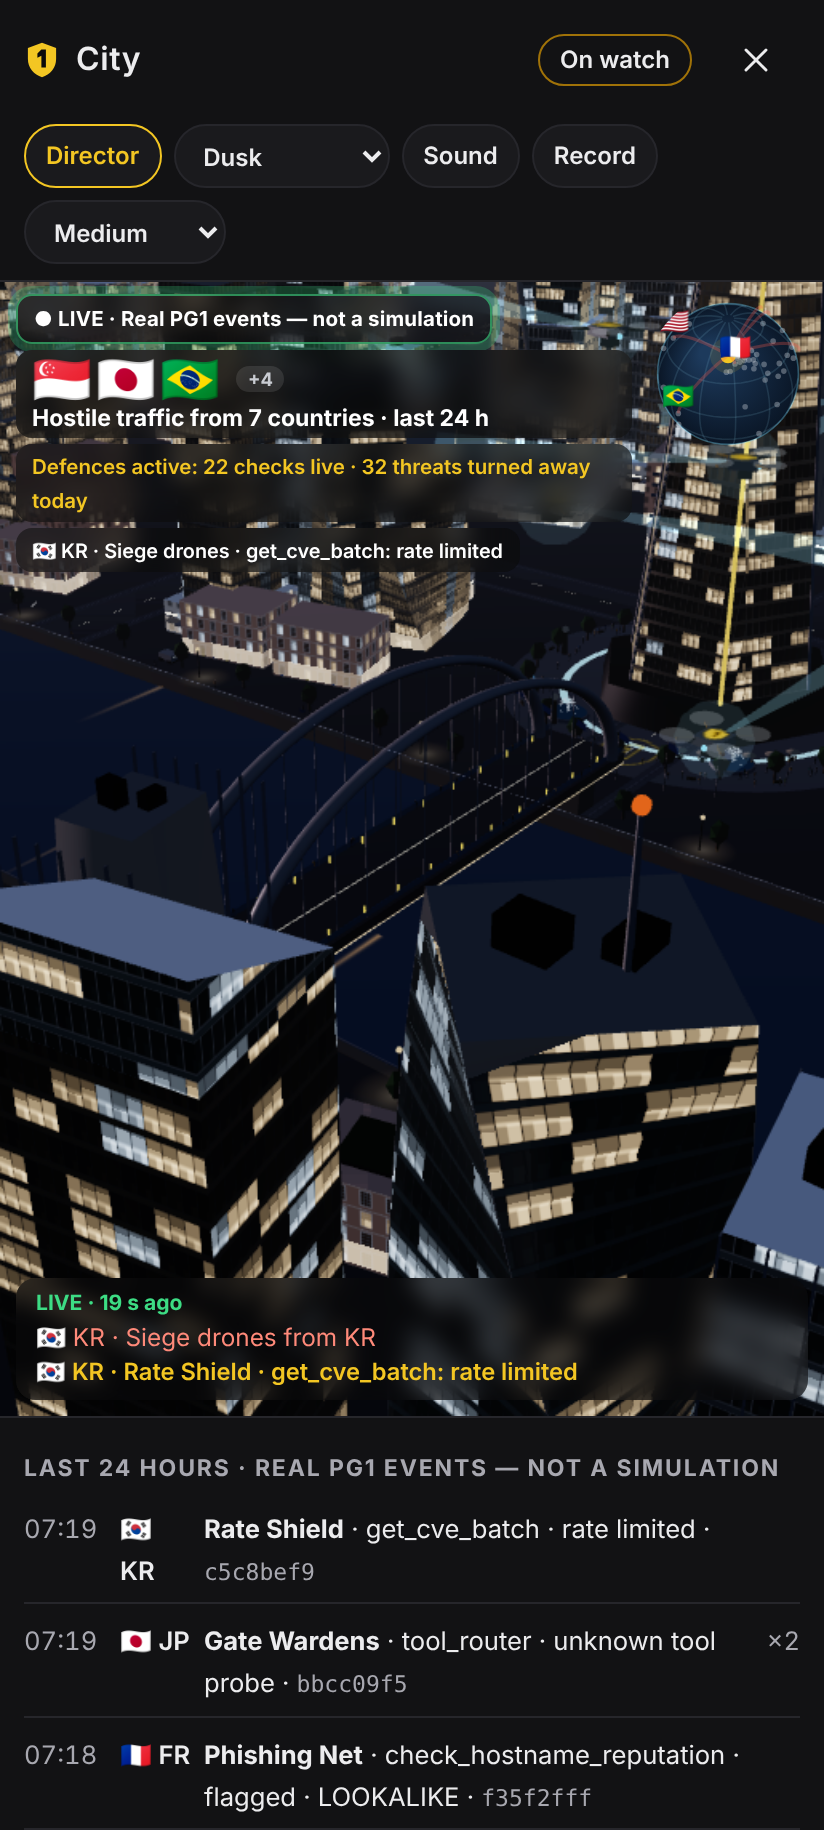
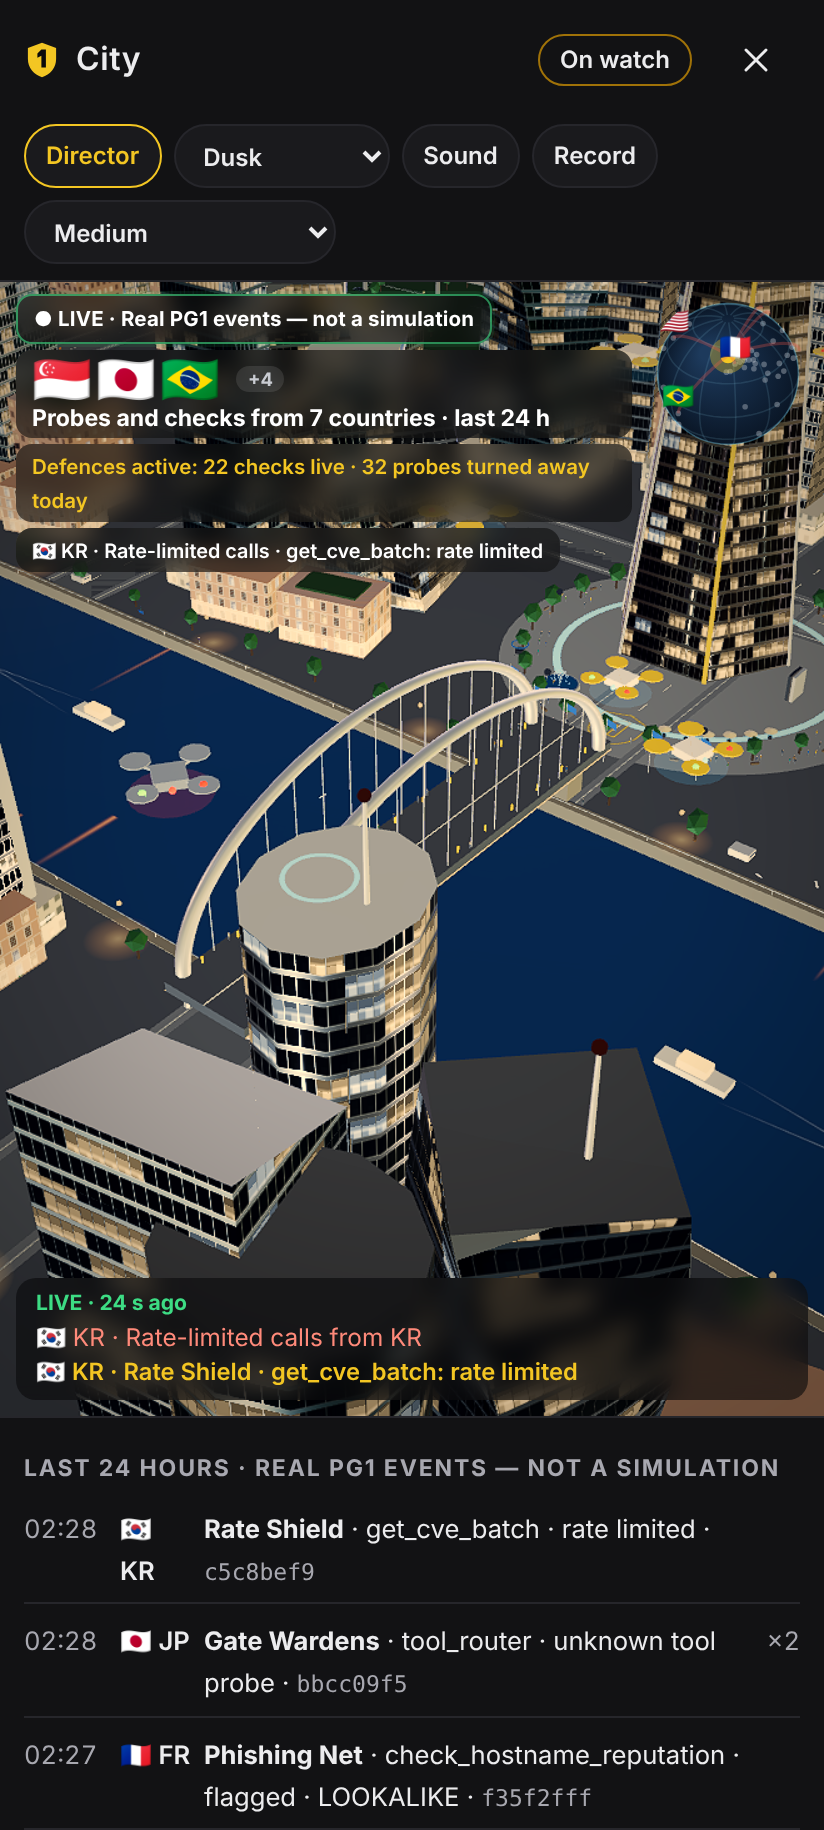
City: a modelled tram, rounder trees, a lit lobby, fuller figures; Legacy kept under budget at night
- The tram: one model of the whole five-car set (articulated cars and
  bellows, a raked cab nose with a windscreen at each end, glazed window
  band and doors lit after dark, livery stripe, bogies, roof gear and
  pantographs), one instance a tram, one draw call. Was five white boxes.
- Trees (desktop tiers): a clump of rounded masses with their own shade and
  size; phone tiers keep the single low crown.
- The tower's podium (desktop tiers): a lit glass lobby between stone bands
  instead of dark steel that read as a black wall at eye level.
- People (all but Low): hips, shoulders, neck, arms with hands, hair.
- Legacy at night was over 150k triangles (also on main: the night lights
  are on screen); its lamp heads and drone lamps are now low-poly spheres:
  143k.
- The reel: street level at eye level among the people, looking up at the
  tower; Showcase workflow `reel_epoch` to re-render shots on an earlier
  run's 7-day window.

Claude-Session: https://claude.ai/code/session_01X8yNKEDv3E9yUsKKADbqih

diff --git a/public/kingdom/kingdom-life.js b/public/kingdom/kingdom-life.js
@@ -49,9 +49,20 @@ export function personGeometry(THREE, { low = false } = {}) {
   const trousers = [0.16, 0.17, 0.2];
   for (const x of [-0.1, 0.1]) { const l = new THREE.CylinderGeometry(0.075, 0.065, 0.86, sides, 1, true); l.translate(x, 0.45, 0); add(l, trousers, 0); }
   if (!low) for (const x of [-0.1, 0.1]) { const sh = new THREE.BoxGeometry(0.11, 0.07, 0.24); sh.translate(x, 0.035, 0.04); add(sh, [0.08, 0.08, 0.09], 0); }
-  const torso = new THREE.CylinderGeometry(0.21, 0.16, 0.62, sides, 1, false); torso.translate(0, 1.18, 0); add(torso, [1, 1, 1], 1);
-  if (!low) for (const x of [-0.25, 0.25]) { const a = new THREE.CylinderGeometry(0.05, 0.045, 0.58, 4, 1, true); a.translate(x, 1.17, 0); add(a, [1, 1, 1], 1); }
-  const head = new THREE.SphereGeometry(0.115, low ? 5 : 7, low ? 3 : 5); head.scale(1, 1.12, 1); head.translate(0, 1.64, 0); add(head, [1, 1, 1], 2);
+  if (low) { const torso = new THREE.CylinderGeometry(0.21, 0.16, 0.62, sides, 1, false); torso.translate(0, 1.18, 0); add(torso, [1, 1, 1], 1); }
+  else {
+    // Hips, a torso with shoulders, a neck; arms with skin-toned hands; hair.
+    const hips = new THREE.CylinderGeometry(0.17, 0.16, 0.16, 8, 1, false); hips.translate(0, 0.9, 0); add(hips, trousers, 0);
+    const torso = new THREE.CylinderGeometry(0.22, 0.165, 0.56, 8, 1, false); torso.scale(1, 1, 0.72); torso.translate(0, 1.25, 0); add(torso, [1, 1, 1], 1);
+    const shoulders = new THREE.SphereGeometry(0.22, 8, 3, 0, Math.PI * 2, 0, Math.PI / 2); shoulders.scale(1, 0.35, 0.72); shoulders.translate(0, 1.52, 0); add(shoulders, [1, 1, 1], 1);
+    const neck = new THREE.CylinderGeometry(0.05, 0.055, 0.09, 6, 1, true); neck.translate(0, 1.56, 0); add(neck, [1, 1, 1], 2);
+    for (const x of [-0.255, 0.255]) {
+      const a = new THREE.CylinderGeometry(0.058, 0.048, 0.56, 6, 1, true); a.rotateZ(x > 0 ? 0.08 : -0.08); a.translate(x, 1.23, 0); add(a, [1, 1, 1], 1);
+      const h = new THREE.SphereGeometry(0.05, 5, 4); h.translate(x * 1.08, 0.92, 0); add(h, [1, 1, 1], 2);
+    }
+  }
+  const head = new THREE.SphereGeometry(0.115, low ? 5 : 9, low ? 3 : 7); head.scale(1, 1.12, 1); head.translate(0, 1.7, 0); add(head, [1, 1, 1], 2);
+  if (!low) { const hair = new THREE.SphereGeometry(0.122, 9, 4, 0, Math.PI * 2, 0, Math.PI * 0.55); hair.scale(1, 1.1, 1.04); hair.translate(0, 1.715, -0.012); add(hair, [0.1, 0.075, 0.06], 0); }
   const n = parts.reduce((k, g) => k + g.attributes.position.count, 0);
   const out = new THREE.BufferGeometry();
   for (const [name, size] of [['position', 3], ['normal', 3], ['color', 3], ['aTint', 1]]) {
@@ -210,8 +221,47 @@ export function createLife(THREE, scene, world, settings) {
   const platforms = named(new THREE.InstancedMesh(new THREE.BoxGeometry(100, 0.6, 3), std(0xb7babf, { roughness: 0.7 }), traffic.stations.length * 2), 'tram-platforms');
   traffic.stations.forEach((x, i) => { set(platforms, i * 2, x, 15.9, TRAM_Z - 6); set(platforms, i * 2 + 1, x, 15.9, TRAM_Z + 6); });
   root.add(platforms);
-  const tramTex = (() => { const cv = document.createElement('canvas'); cv.width = 128; cv.height = 32; const g = cv.getContext('2d'); g.fillStyle = '#20262e'; g.fillRect(0, 0, 128, 32); g.fillStyle = '#ffe2b0'; for (let x = 6; x < 128; x += 16) g.fillRect(x, 9, 10, 12); const t = new THREE.CanvasTexture(cv); t.colorSpace = THREE.SRGBColorSpace; return t; })();
-  const carriages = dyn(named(new THREE.InstancedMesh(new THREE.BoxGeometry(18, 3.4, 2.8), new THREE.MeshStandardMaterial({ color: LIFE_COLOURS.tram, emissive: 0xffffff, emissiveMap: tramTex, emissiveIntensity: 0.9, roughness: 0.4, metalness: 0.5 }), 10), 'tram'));
+  // The tram (1.24 look): one model of the whole five-car set, not boxes.
+  // Articulated cars with bellows between them, a raked cab nose with a
+  // windscreen at each end (it runs both ways), a glazed window band and
+  // glazed doors that light up after dark, a livery stripe, bogies, roof
+  // equipment and a pantograph on alternate cars. One instance a tram, one
+  // draw call. Built along z (cars 18 m, 0.6 m bellows), floor at y 0.
+  const TRAM_CAR = 18; const TRAM_GAP = 0.6; const TRAM_SET = 5 * TRAM_CAR + 4 * TRAM_GAP;
+  const rect = (z0, z1, y0, y1, w, col, glow = 0) => ({ ...profile([[z0, y0], [z1, y0], [z1, y1], [z0, y1]], w, col), glow });
+  const LIVERY = [0.18, 0.43, 0.71]; const SHELL = [0.93, 0.94, 0.95]; const ROOFGREY = [0.42, 0.44, 0.47]; const BOGIE = [0.1, 0.1, 0.11]; const LAMP = [1, 0.97, 0.9];
+  const tramParts = [];
+  for (let c = 0; c < 5; c++) {
+    const z0 = -TRAM_SET / 2 + c * (TRAM_CAR + TRAM_GAP); const z1 = z0 + TRAM_CAR; const zc = (z0 + z1) / 2;
+    tramParts.push(
+      rect(z0, z1, 0.35, 3.2, 2.62, SHELL),                                   // the body shell
+      rect(z0 + 0.8, z1 - 0.8, 1.3, 2.7, 2.66, GLASS, 1),                     // the window band, lit inside after dark
+      rect(zc - 5.4, zc - 3.8, 0.45, 2.75, 2.68, [0.12, 0.15, 0.18], 0.7),    // glazed doors, two a side
+      rect(zc + 3.8, zc + 5.4, 0.45, 2.75, 2.68, [0.12, 0.15, 0.18], 0.7),
+      rect(z0, z1, 0.62, 0.95, 2.67, LIVERY),                                 // the livery stripe
+      rect(z0, z1, 2.82, 2.95, 2.67, LIVERY),                                 // and the cant rail
+      ({ ...profile([[z0 + 0.3, 3.2], [z1 - 0.3, 3.2], [z1 - 0.6, 3.42], [z0 + 0.6, 3.42]], 2.3, SHELL) }), // the roof's curve
+      rect(zc - 3.2, zc + 3.2, 3.42, 3.75, 1.5, ROOFGREY),                    // roof equipment
+      rect(z0 + 2.2, z0 + 4.6, 0, 0.42, 2.2, BOGIE), rect(z1 - 4.6, z1 - 2.2, 0, 0.42, 2.2, BOGIE)
+    );
+    if (c % 2 === 0) tramParts.push(rect(zc - 0.1, zc + 0.1, 3.75, 4.6, 1.6, ROOFGREY), rect(zc - 0.7, zc + 0.7, 4.55, 4.65, 1.7, ROOFGREY)); // pantograph
+    if (c < 4) tramParts.push(rect(z1, z1 + TRAM_GAP, 0.5, 3.0, 2.3, BOGIE));  // bellows
+  }
+  for (const s of [-1, 1]) {
+    const e = s * TRAM_SET / 2; const f = (dz) => e + s * dz; const nose = (pts) => (s > 0 ? pts : pts.slice().reverse()).map(([dz, y]) => [f(dz), y]);
+    tramParts.push(
+      profile(nose([[0, 0.35], [0.9, 0.45], [1.25, 1.2], [1.1, 2.9], [0.6, 3.38], [0, 3.42]]), 2.5, SHELL),   // the raked cab nose
+      { ...profile(nose([[0.05, 1.3], [1.28, 1.3], [1.13, 2.85], [0.62, 3.2], [0.05, 3.2]]), 2.2, GLASS), glow: 0.25 }, // windscreen
+      rect(Math.min(f(0.9), f(1.27)), Math.max(f(0.9), f(1.27)), 0.6, 0.95, 2.52, LIVERY),
+      ...[-0.85, 0.85].map((x) => { const l = rect(Math.min(f(1.0), f(1.3)), Math.max(f(1.0), f(1.3)), 0.75, 0.92, 0.4, LAMP, 2.4); l.g.translate(x, 0, 0); return l; }), // headlamps at the corners
+      { ...rect(Math.min(f(0.7), f(1.0)), Math.max(f(0.7), f(1.0)), 2.95, 3.2, 1.3, [1, 0.72, 0.25]), glow: 1.6 } // destination sign
+    );
+  }
+  const tramGeo = vehicleGeo(tramParts);
+  const tramMat = std(0xffffff, { roughness: 0.38, metalness: 0.35, vertexColors: true }); const tramLit = { value: 0.2 };
+  tramMat.onBeforeCompile = (sh) => { sh.uniforms.uLit = tramLit; sh.vertexShader = sh.vertexShader.replace('#include <common>', '#include <common>\nattribute vec3 aGlow;\nvarying vec3 vGlow;').replace('#include <begin_vertex>', '#include <begin_vertex>\nvGlow = aGlow;'); sh.fragmentShader = sh.fragmentShader.replace('#include <common>', '#include <common>\nvarying vec3 vGlow;\nuniform float uLit;').replace('#include <emissivemap_fragment>', '#include <emissivemap_fragment>\ntotalEmissiveRadiance += vGlow * uLit;'); };
+  tramMat.customProgramCacheKey = () => 'pg1-tram-windows';
+  const carriages = dyn(named(new THREE.InstancedMesh(tramGeo, tramMat, 2), 'tram'));
   root.add(carriages);
 
   // --- the river: boats in lanes, with wakes; moored boats rocking ---
@@ -524,9 +574,10 @@ export function createLife(THREE, scene, world, settings) {
       if (carBodies.instanceColor) carBodies.instanceColor.needsUpdate = true;
       for (const m of [carBodies, carCabs, vans, buses, heads, tails, spray]) m.instanceMatrix.needsUpdate = true;
       // The trams.
-      traffic.trams.forEach((tr, n) => { for (let i = 0; i < 5; i++) set(carriages, n * 5 + i, tr.x - tr.dir * (i * 18.6 + 9), 17.4, tr.z); });
-      carriages.count = traffic.trams.length * 5; carriages.instanceMatrix.needsUpdate = true;
-      carriages.material.emissiveIntensity = 0.3 + 0.9 * dark;
+      // One set a tram, its front at tr.x, floor on the viaduct deck (15.7 m); built along z, turned onto the line.
+      traffic.trams.forEach((tr, n) => set(carriages, n, tr.x - tr.dir * (TRAM_SET / 2), 15.7, tr.z, Math.PI / 2));
+      carriages.count = Math.min(2, traffic.trams.length); carriages.instanceMatrix.needsUpdate = true;
+      tramLit.value = 0.02 + 0.85 * dark;
       // Boats on the river, and moored ones rocking.
       boats.forEach((b, i) => {
         const sc = b.len / 18;

diff --git a/public/kingdom/kingdom-world.js b/public/kingdom/kingdom-world.js
@@ -607,13 +607,42 @@ export function buildWorld(THREE, scene, settings, { waterMaterial = null, Refle
       #endif`);
   };
   mats.leaf.customProgramCacheKey = () => 'pg1-leaf-wind';
-  const crowns = named(new THREE.InstancedMesh(new THREE.IcosahedronGeometry(2.2, 0), mats.leaf, treeSpots.length), 'tree-crowns');
-  treeSpots.forEach(([x, z], i) => { set(trunks, i, x, 1.5, z); set(crowns, i, x, 4.4, z, 1, 1.2, 1, i); });
+  // Crowns: on the desktop tiers, a clump of three rounded masses (an oval
+  // canopy, not a gem); on the phone tiers the single low crown. Each tree
+  // takes its own shade of green and size, so a row never looks stamped out.
+  const richTrees = !phone && !settings.leanCity;
+  const crownGeo = (() => {
+    if (!richTrees) return new THREE.IcosahedronGeometry(2.2, 0);
+    const lumps = [[0, 0.2, 0, 1.9], [-0.95, -0.35, 0.45, 1.45], [0.9, -0.25, -0.4, 1.5], [0.15, -0.4, 0.95, 1.3]].map(([x, y, z, r]) => { const g = new THREE.IcosahedronGeometry(r, 1); g.translate(x, y, z); return g.toNonIndexed(); });
+    const total = lumps.reduce((a, g) => a + g.attributes.position.count, 0); const out = new THREE.BufferGeometry();
+    for (const name of ['position', 'normal']) { const arr = new Float32Array(total * 3); let o = 0; for (const g of lumps) { arr.set(g.attributes[name].array, o); o += g.attributes[name].array.length; } out.setAttribute(name, new THREE.BufferAttribute(arr, 3)); }
+    lumps.forEach((g) => g.dispose()); out.computeBoundingSphere(); return out;
+  })();
+  const crowns = named(new THREE.InstancedMesh(crownGeo, mats.leaf, treeSpots.length), 'tree-crowns');
+  { const tc = rng(29); const shade = new THREE.Color();
+    treeSpots.forEach(([x, z], i) => { const s = 0.82 + tc() * 0.4; set(trunks, i, x, 1.5 * s, z, 1, s, 1, 0); set(crowns, i, x, 4.4 * s, z, s, s * (1.05 + tc() * 0.2), s, i);
+      if (richTrees) crowns.setColorAt(i, shade.setRGB(0.78 + tc() * 0.4, 0.85 + tc() * 0.3, 0.7 + tc() * 0.35)); }); }
   root.add(trunks); root.add(crowns);
 
   // --- the PG1 Tower ---
   const keep = named(new THREE.Group(), 'pg1-tower');
-  const podium = named(new THREE.Mesh(new THREE.CylinderGeometry(30, 32, PODIUM_H, 6), mats.steelDark), 'tower-podium'); podium.position.y = PODIUM_H / 2; podium.rotation.y = Math.PI / 6; keep.add(podium);
+  // The podium: on the desktop tiers a lit glass lobby between stone bands
+  // (at eye level the plain dark steel read as a black wall); the phone tiers
+  // keep one plain material (one draw call).
+  const podiumMats = (() => {
+    if (phone) return mats.steelDark;
+    const cv = document.createElement('canvas'); cv.width = 1024; cv.height = 64; const g = cv.getContext('2d');
+    g.fillStyle = '#8f949b'; g.fillRect(0, 0, 1024, 64); g.fillStyle = '#1e2933'; g.fillRect(0, 12, 1024, 44);
+    g.fillStyle = '#c9ccd1'; for (let x = 0; x < 1024; x += 32) g.fillRect(x, 12, 3, 44); g.fillRect(0, 12, 1024, 2); g.fillRect(0, 54, 1024, 2);
+    const map = new THREE.CanvasTexture(cv); map.colorSpace = THREE.SRGBColorSpace; map.anisotropy = 4;
+    const ecv = document.createElement('canvas'); ecv.width = 1024; ecv.height = 64; const e = ecv.getContext('2d'); e.fillStyle = '#000'; e.fillRect(0, 0, 1024, 64);
+    e.fillStyle = '#6b5a3c'; for (let x = 3; x < 1024; x += 32) e.fillRect(x, 16, 29, 38);
+    const emissiveMap = new THREE.CanvasTexture(ecv); emissiveMap.colorSpace = THREE.SRGBColorSpace;
+    const side = new THREE.MeshStandardMaterial({ color: 0xffffff, map, emissive: 0xffffff, emissiveMap, emissiveIntensity: 0.9, roughness: 0.35, metalness: 0.2 });
+    const top = std(0x7d838b, { roughness: 0.6, metalness: 0.15 });
+    return [side, top, top];
+  })();
+  const podium = named(new THREE.Mesh(new THREE.CylinderGeometry(30, 32, PODIUM_H, 6), podiumMats), 'tower-podium'); podium.position.y = PODIUM_H / 2; podium.rotation.y = Math.PI / 6; keep.add(podium);
   const spireGeo = new THREE.CylinderGeometry(2.2, 24, SPIRE_H, 6, 1, true); spireGeo.translate(0, SPIRE_H / 2, 0);
   spireGeo.setAttribute('aSeed', new THREE.InstancedBufferAttribute(new Float32Array([777]), 1));
   spireGeo.setAttribute('aStyle', new THREE.InstancedBufferAttribute(new Float32Array([STYLES.glass]), 1));
@@ -814,7 +843,7 @@ export function buildWorld(THREE, scene, settings, { waterMaterial = null, Refle
   const lampN = phone ? 90 : 220;
   const lampPoles = named(new THREE.InstancedMesh(new THREE.CylinderGeometry(0.15, 0.2, 8, 6), mats.steelDark, lampN), 'street-light-poles');
   const lampMat = new THREE.MeshBasicMaterial({ color: 0x6a6252 });
-  const lampHeads = named(new THREE.InstancedMesh(new THREE.SphereGeometry(0.55, 8, 6), lampMat, lampN), 'street-lights');
+  const lampHeads = named(new THREE.InstancedMesh(legacy ? new THREE.SphereGeometry(0.55, 5, 3) : new THREE.SphereGeometry(0.55, 8, 6), lampMat, lampN), 'street-lights'); // Legacy: 20-triangle lamp heads (the same glow at a phone's distance), keeping its night view under 150k triangles
   for (let i = 0; i < lampN; i++) {
     const side = i % 2 ? 1 : -1; const x = -1600 + Math.floor(i / 2) * (3200 / (lampN / 2));
     set(lampPoles, i, x, 4, RIVER.z + side * (RIVER.half + 3)); set(lampHeads, i, x, 8.2, RIVER.z + side * (RIVER.half + 3));

diff --git a/public/kingdom/kingdom-actors.js b/public/kingdom/kingdom-actors.js
@@ -124,7 +124,7 @@ function navGeo(THREE) {
 }
 // The drone's lights, all unlit: nav lights, the strobe, the underglow.
 function droneLights(THREE, light) {
-  const strobe = strobeGeoQ || (strobeGeoQ = new THREE.SphereGeometry(0.11, 8, 6));
+  const strobe = strobeGeoQ || (strobeGeoQ = LEAN ? new THREE.SphereGeometry(0.11, 4, 3) : new THREE.SphereGeometry(0.11, 8, 6));
   const under = underGeoQ || (underGeoQ = (() => { const g = new THREE.CircleGeometry(1.15, 20); g.rotateX(-Math.PI / 2); return g; })());
   const um = new THREE.MeshBasicMaterial({ color: light, transparent: true, opacity: 0, blending: THREE.AdditiveBlending, depthWrite: false, side: THREE.DoubleSide });
   um.name = 'drone-underglow';
@@ -195,12 +195,14 @@ function quadParts(THREE, M, light, body = ENEMY_BODY, lean = LEAN || LEAN_DRONE
     { geo: new THREE.SphereGeometry(0.1, 8, 6), mat: new THREE.MeshBasicMaterial({ color: light }), offset: [0, -0.1, 0.5], swing: null, flat: true }
   ];
   if (lean) {
+    // Legacy (LEAN): the lamps as 16-triangle spheres (the same points of light at a phone's distance; the night view stays under 150k triangles).
+    const sph = (r) => (LEAN ? new THREE.SphereGeometry(r, 4, 3) : new THREE.SphereGeometry(r, 8, 6));
     const one = mergeColoured(THREE, [
       { geo: parts[0].geo, color: body, glow: DRONE_LOOK.selfLight },
       { geo: armsX(THREE), at: [0, 0.05, 0], color: arms, glow: DRONE_LOOK.selfLight },
-      { geo: parts[2].geo, at: [0, -0.1, 0.5], color: light, glow: 1.6 },
-      { geo: new THREE.SphereGeometry(0.12, 8, 6), at: [0.78, 0.1, 0.78], color: DRONE_LOOK.navRed, glow: 1.6 },
-      { geo: new THREE.SphereGeometry(0.12, 8, 6), at: [-0.78, 0.1, 0.78], color: DRONE_LOOK.navGreen, glow: 1.6 }
+      { geo: LEAN ? sph(0.1) : parts[2].geo, at: [0, -0.1, 0.5], color: light, glow: 1.6 },
+      { geo: sph(0.12), at: [0.78, 0.1, 0.78], color: DRONE_LOOK.navRed, glow: 1.6 },
+      { geo: sph(0.12), at: [-0.78, 0.1, 0.78], color: DRONE_LOOK.navGreen, glow: 1.6 }
     ]);
     const [, strobe, under] = droneLights(THREE, light);
     return [{ geo: one, mat: glowMaterial(THREE), offset: [0, 0, 0], swing: null, nav: true, look: parts[0].look }, strobe, under];

diff --git a/docs/showcase.md b/docs/showcase.md
@@ -130,7 +130,9 @@ replaying real data only:
 
 Run it on GitHub: **PG1 Showcase render** with `reel: inside-city`. A plan job
 fixes one "now", then every shot renders on its own runner at once, all reading
-the same 7-day window (`--epoch`). Locally, for one shot:
+the same 7-day window (`--epoch`). To re-render some shots on an earlier run's
+window, give `reel_shots` and that run's `reel_epoch` (its manifest's
+`window.now`). Locally, for one shot:
 
 ```sh
 node scripts/showcase-render.mjs --reel inside-city --shots crown-tower --epoch 2026-11-23T20:00:00Z
